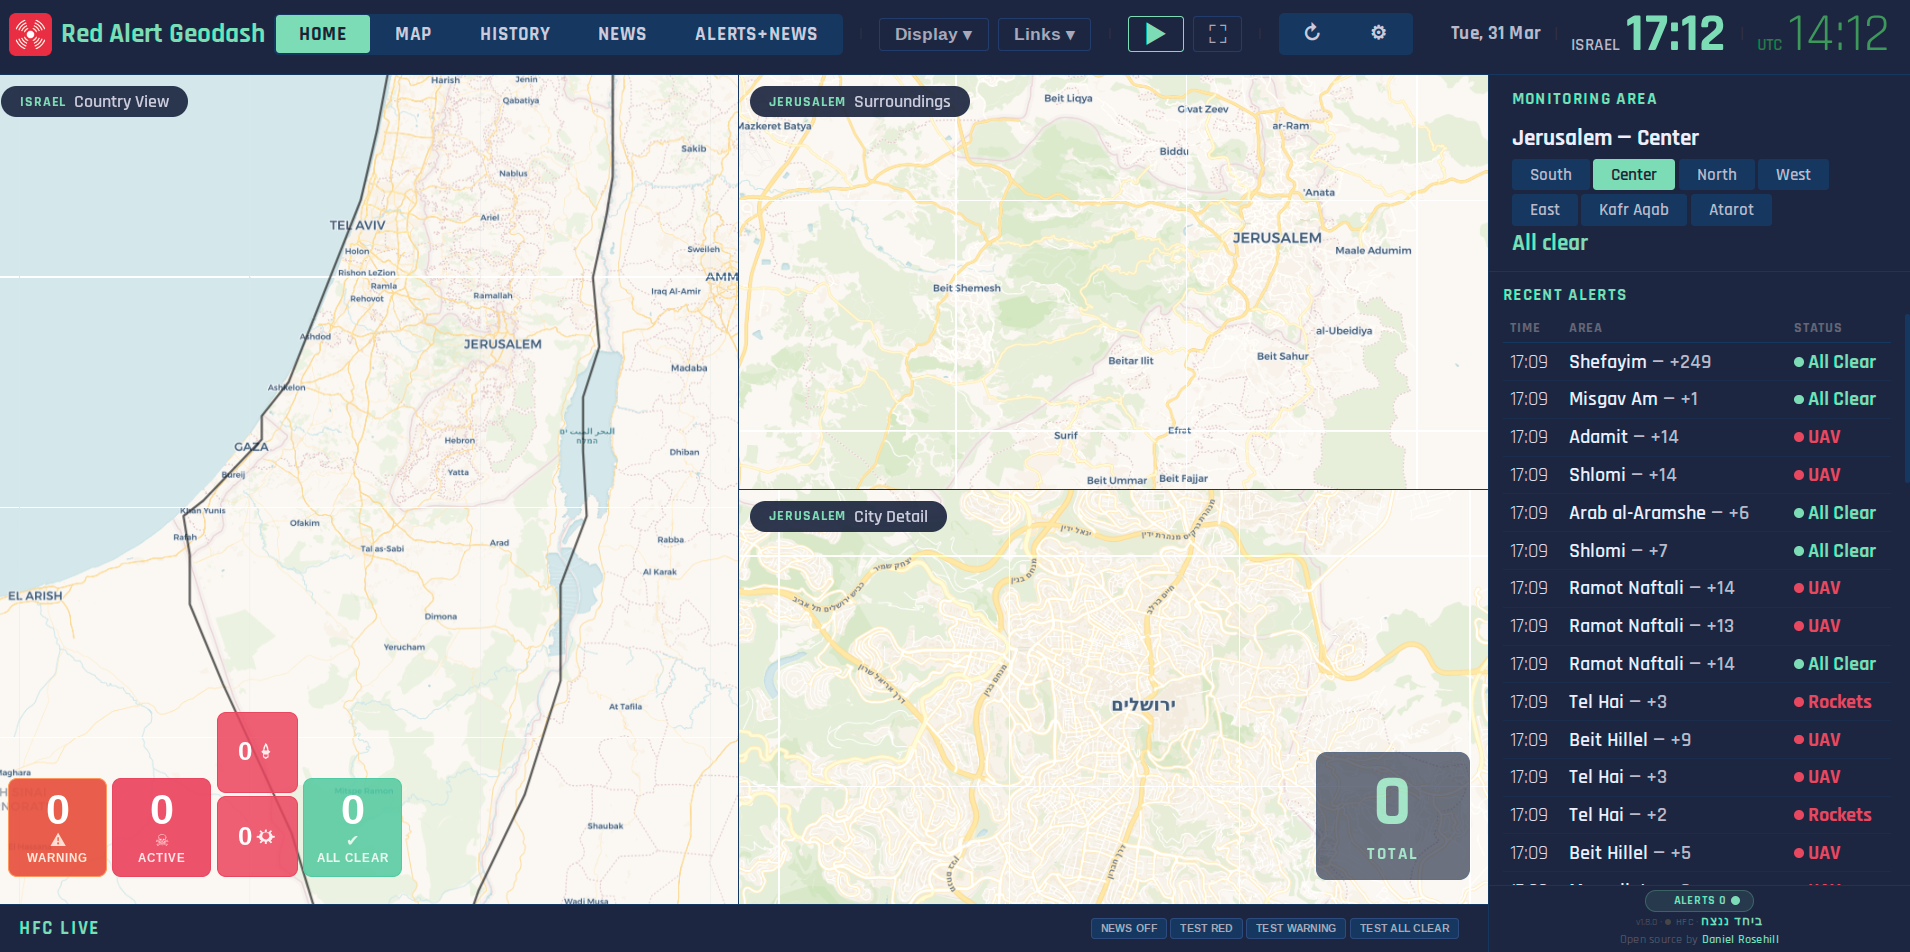
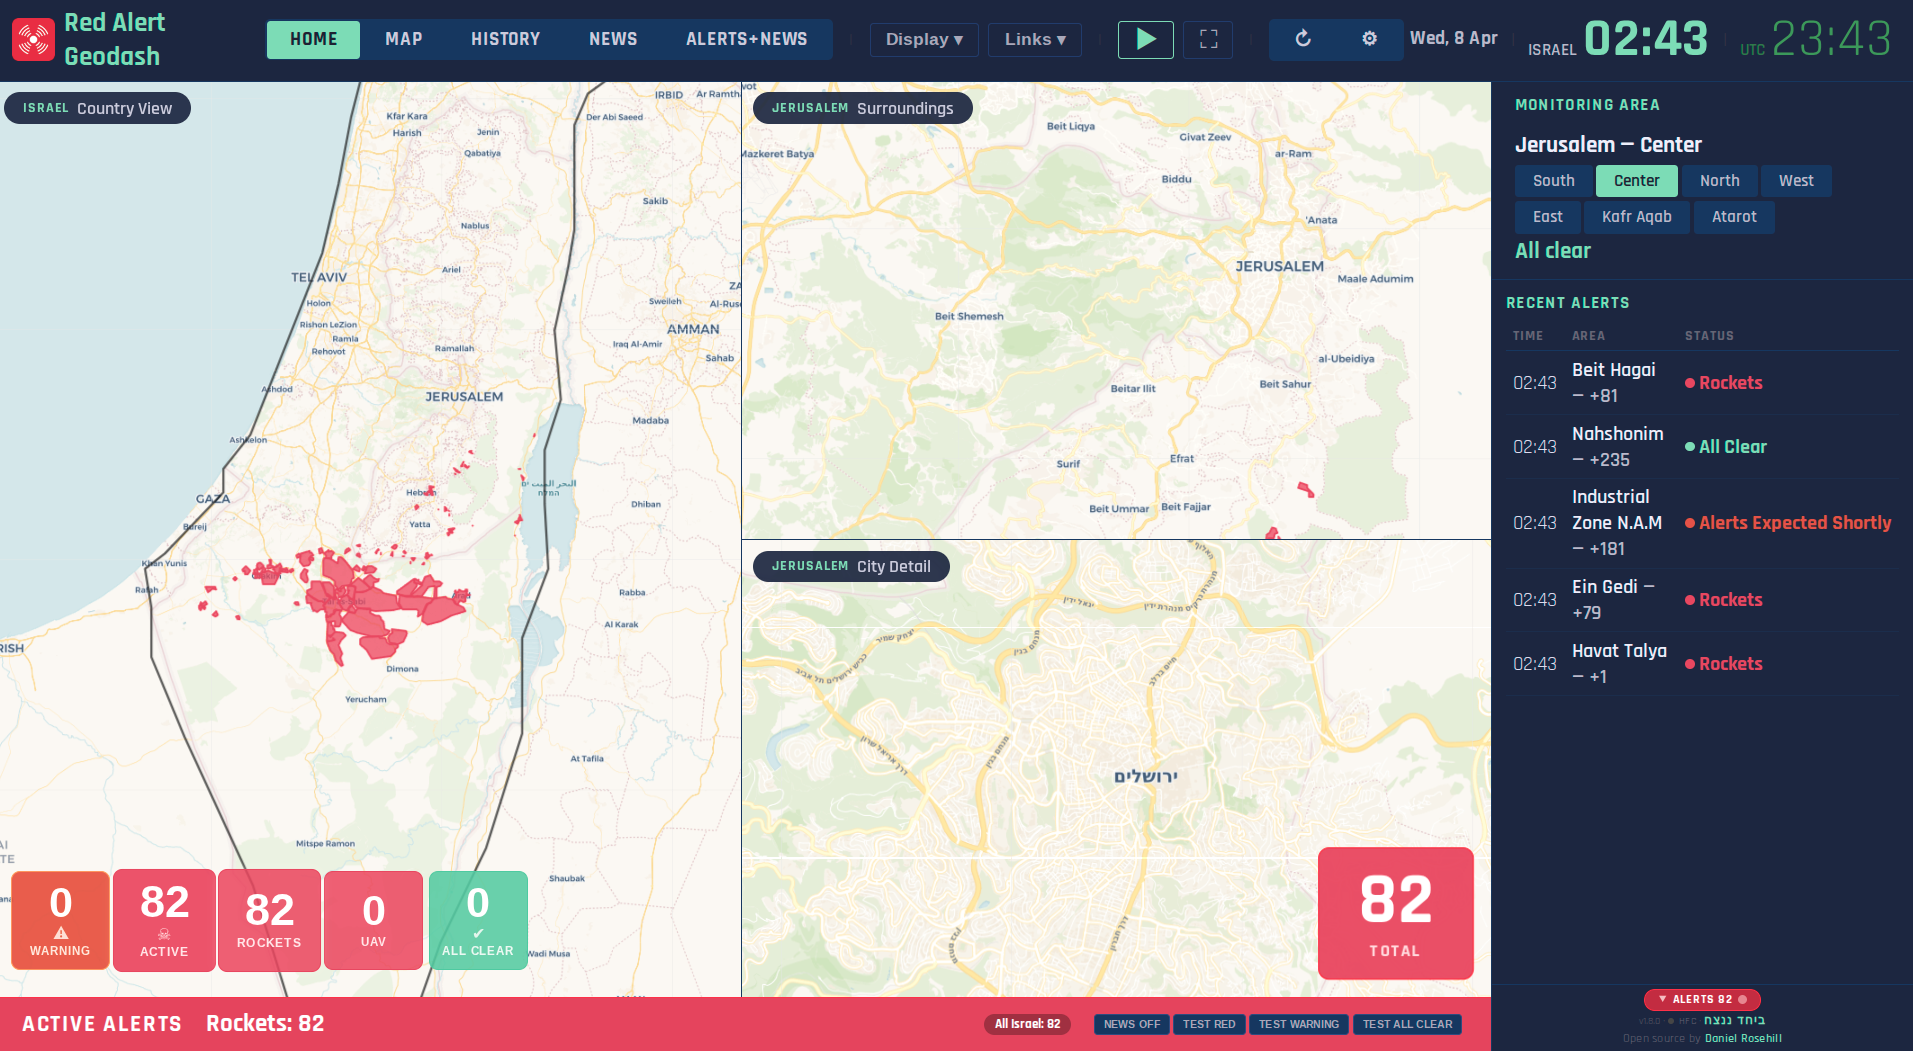
docs: refresh dashboard screenshot (Apr 8 2026)

diff --git a/README.md b/README.md
@@ -1,6 +1,6 @@
 # Red Alert Monitoring Stack
 
-![Geodash dashboard showing real-time alert monitoring, Mar 31 2026](alerts.png)
+![Geodash dashboard showing real-time alert monitoring, Apr 8 2026](alerts.png)
 
 Microservices stack for monitoring Israel's Homefront Command (Pikud HaOref) alerts with real-time visualization, push notifications, AI situation reports, and home automation integration.
 
